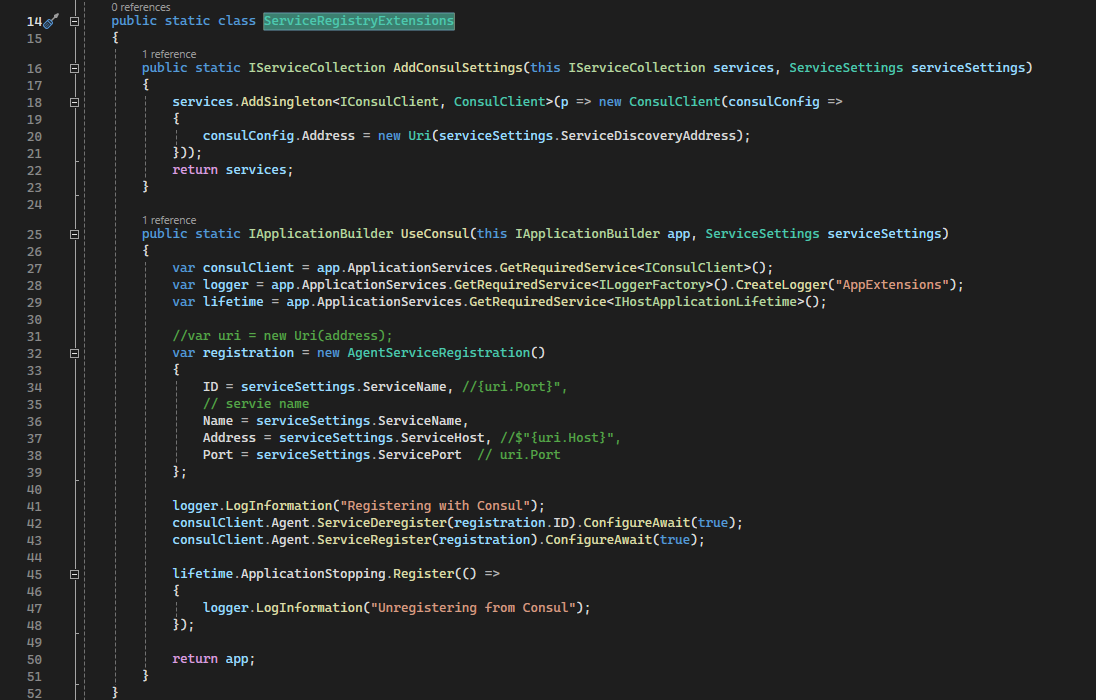
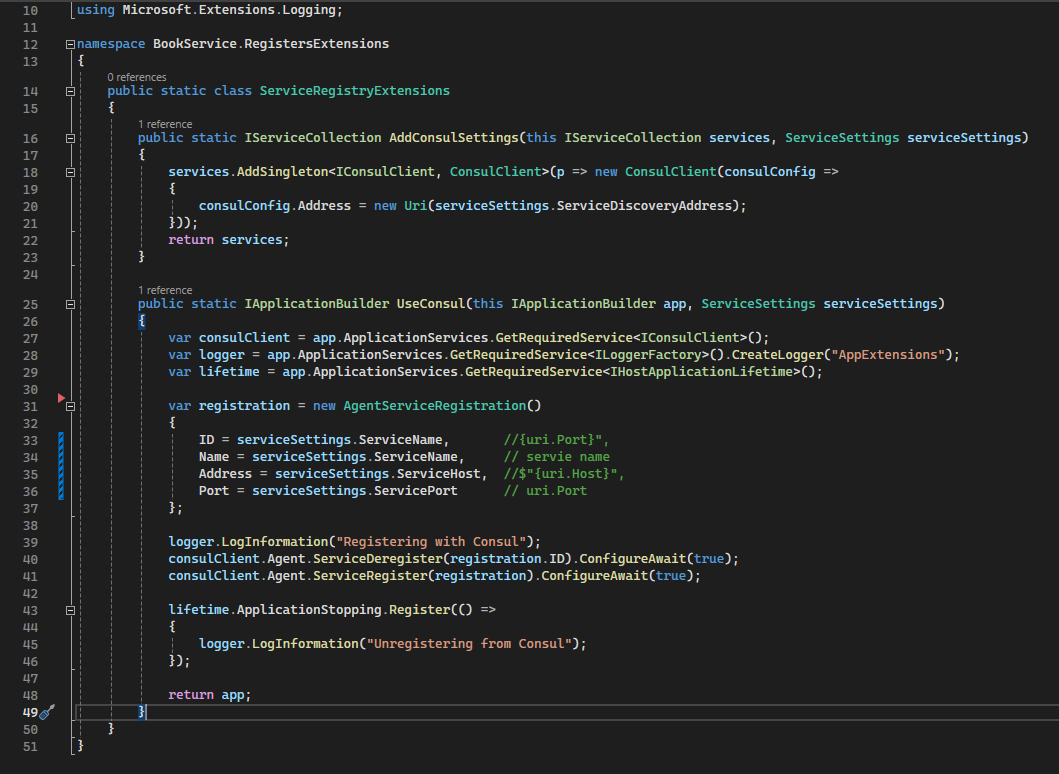
configuração e documentação do service disconvery com consul

Changed region(s): [[0.0, 0.0, 0.966, 1.0]]

diff --git a/src/book-service/RegistersExtensions/ServiceRegistryExtensions.cs b/src/book-service/RegistersExtensions/ServiceRegistryExtensions.cs
@@ -28,14 +28,12 @@ namespace BookService.RegistersExtensions
             var logger = app.ApplicationServices.GetRequiredService<ILoggerFactory>().CreateLogger("AppExtensions");
             var lifetime = app.ApplicationServices.GetRequiredService<IHostApplicationLifetime>();
 
-            //var uri = new Uri(address);
             var registration = new AgentServiceRegistration()
             {
-                ID = serviceSettings.ServiceName, //{uri.Port}",
-                // servie name
-                Name = serviceSettings.ServiceName,
-                Address = serviceSettings.ServiceHost, //$"{uri.Host}",
-                Port = serviceSettings.ServicePort  // uri.Port
+                ID = serviceSettings.ServiceName,       //{uri.Port}",
+                Name = serviceSettings.ServiceName,     // servie name
+                Address = serviceSettings.ServiceHost,  //$"{uri.Host}",
+                Port = serviceSettings.ServicePort      // uri.Port
             };
 
             logger.LogInformation("Registering with Consul");

diff --git a/src/book-service/Startup.cs b/src/book-service/Startup.cs
@@ -6,6 +6,7 @@ using Microsoft.AspNetCore.Hosting;
 using Microsoft.Extensions.Configuration;
 using Microsoft.Extensions.DependencyInjection;
 using Microsoft.Extensions.Hosting;
+using Microsoft.Extensions.Options;
 
 namespace product_service
 {
@@ -26,7 +27,11 @@ namespace product_service
 
             services.AddConsulSettings(ServiceSettings);
 
-            services.AddControllers();
+            services.AddControllers()
+                .AddJsonOptions(opt =>
+                {
+                    opt.JsonSerializerOptions.WriteIndented = true;
+                });
 
             services.AddOptions();
         }

diff --git a/src/api-gateway/Aggregators/BookDetailsAggregator.cs b/src/api-gateway/Aggregators/BookDetailsAggregator.cs
@@ -45,7 +45,11 @@ namespace api_gateway.Aggregators
                 resultingAggregation.Error("There was error when loading the book details.");
             }
 
-            response.Content = new ObjectContent<ResultingAggregation<Book>>(resultingAggregation, new JsonMediaTypeFormatter());
+            response.Content = new ObjectContent<ResultingAggregation<Book>>(resultingAggregation,
+                new JsonMediaTypeFormatter()
+                {
+                    Indent = true
+                });
 
             return new DownstreamResponse(response);
         }

diff --git a/src/pricing-service/Startup.cs b/src/pricing-service/Startup.cs
@@ -26,7 +26,8 @@ namespace pricing_service
 
             services.AddConsulSettings(ServiceSettings);
 
-            services.AddControllers();
+            services.AddControllers()
+                .AddJsonOptions(opt => { opt.JsonSerializerOptions.WriteIndented = true; });
 
             services.AddOptions();
         }

diff --git a/src/rating-service/Startup.cs b/src/rating-service/Startup.cs
@@ -26,7 +26,8 @@ namespace rating_service
 
             services.AddConsulSettings(ServiceSettings);
 
-            services.AddControllers();
+            services.AddControllers()
+                .AddJsonOptions(opt => { opt.JsonSerializerOptions.WriteIndented = true; }); 
 
             services.AddOptions();
         }
